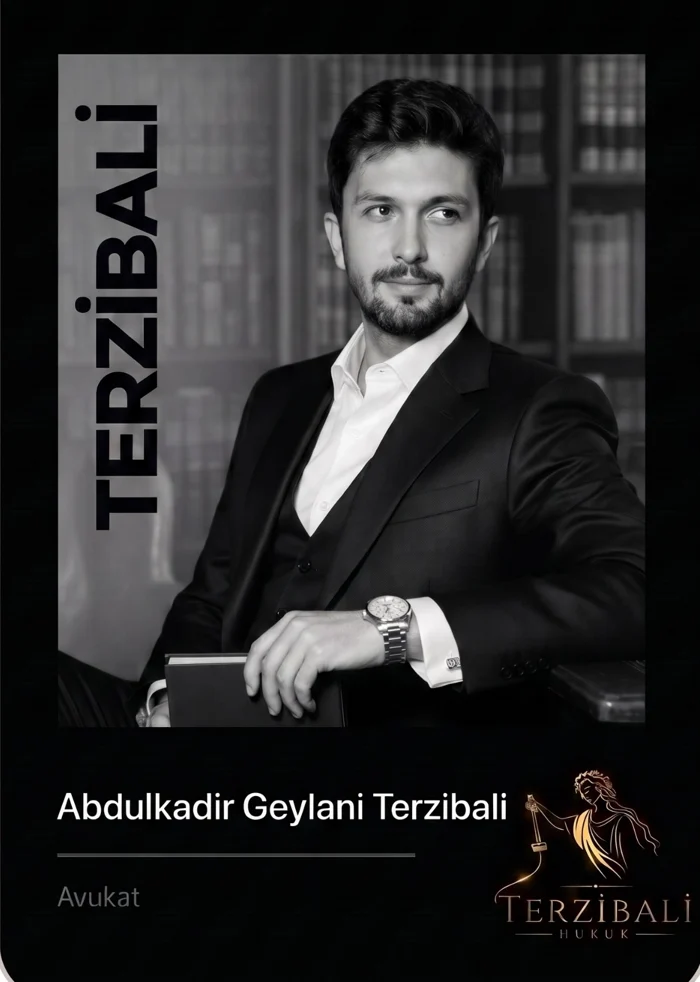
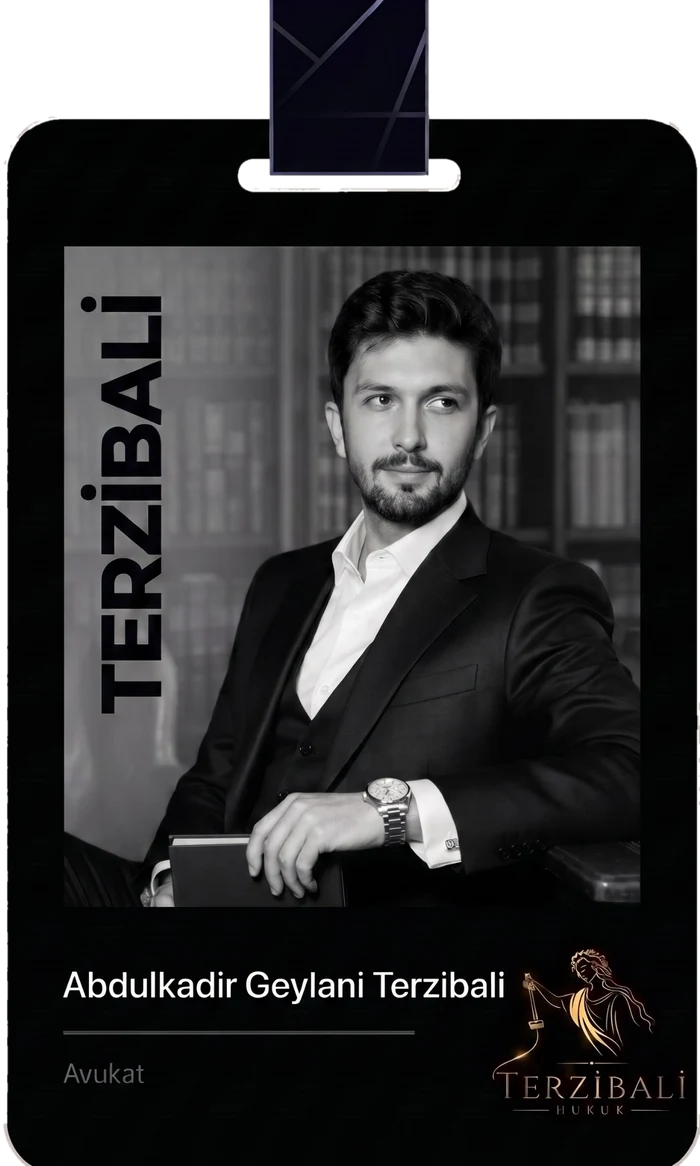
Başvuru bölümü: askılı face card, gerçek Google haritası, geniş form
- Face Card askısıyla birlikte, şeffaf arka planla yerleşti; askı
  yukarıdan iniyor, kart hafifçe sallanıyor (hareketi azalt ayarında durur)
- Formun altındaki küçük ofis fotoğrafı kaldırıldı (ofis.webp silindi)
- Temsilî SVG harita yerine Bakırköy, E-5 Yan Yol için Google Haritalar
  gömülü haritası ve "Google Haritalar'da aç" bağlantısı
- Orta sütundaki form daha geniş

Claude-Session: https://claude.ai/code/session_01LBeBcsDj4cfbtoJ4Fpq1zK

diff --git a/index.html b/index.html
@@ -246,13 +246,21 @@ body::before{content:"";position:fixed;inset:0 0 auto;height:env(safe-area-inset
 .reel-row .reel:nth-child(2){transition-delay:.12s}.reel-row .reel:nth-child(3){transition-delay:.24s}
 
 /* --- 4. Başvuru --- */
+.apply > .wrap{max-width:1360px}
 .apply{background:linear-gradient(180deg,var(--ink),var(--ink-2));overflow:hidden}
+.apply .facecard{margin-top:clamp(40px,6vw,90px)}
 .apply > .wrap > .reveal:first-child{position:relative}
 .apply > .wrap > .reveal:first-child::before{content:"";position:absolute;inset:-30px -60px -30px -60px;z-index:-1;pointer-events:none;background:radial-gradient(ellipse at 30% 50%,rgba(8,9,10,.6),transparent 70%)}
-.apply-grid{display:grid;grid-template-columns:minmax(0,.72fr) minmax(0,1.1fr) minmax(0,1fr);gap:22px;margin-top:48px;align-items:start}
-.facecard{margin:0;position:sticky;top:110px;max-width:100%;border-radius:26px;overflow:hidden;border:1px solid var(--line);background:#000;box-shadow:0 40px 80px -40px rgba(0,0,0,.95),0 0 0 1px rgba(197,160,89,.06)}
-.facecard img{width:100%;height:auto;display:block}
-@media (min-width:1101px){.apply-grid .form-foot{grid-template-columns:1fr}.apply-grid .apply-photo{max-width:220px}.apply-grid .loc-actions{grid-template-columns:1fr}.apply-grid .loc-body{padding:26px 22px}.apply-grid .row .v{font-size:.92rem}.apply-grid .row > span{overflow-wrap:normal}}
+.apply-grid{display:grid;grid-template-columns:minmax(0,.66fr) minmax(0,1.4fr) minmax(0,.92fr);gap:24px;margin-top:48px;align-items:start}
+.facecard{margin:0;position:relative;max-width:100%;transform-origin:50% -320px;animation:badgeSway 7s ease-in-out infinite}
+.facecard img{position:relative;width:100%;height:auto;display:block;filter:drop-shadow(0 34px 40px rgba(0,0,0,.75))}
+/* askı: kartın askısını bölümün üst kenarına kadar uzatır */
+.lanyard{position:absolute;left:38.6%;width:22%;bottom:calc(100% - 2px);height:calc(clamp(40px,6vw,90px) + 70px);pointer-events:none;-webkit-mask-image:linear-gradient(0deg,#000 55%,transparent);mask-image:linear-gradient(0deg,#000 55%,transparent);
+  background:linear-gradient(118deg,transparent 46%,rgba(170,165,210,.22) 47%,transparent 48.5%),linear-gradient(62deg,transparent 30%,rgba(170,165,210,.16) 31%,transparent 32.5%),linear-gradient(180deg,#05050c,#0b0a19);
+  background-size:100% 260px,100% 340px,100% 100%;box-shadow:inset 1px 0 0 rgba(255,255,255,.06),inset -1px 0 0 rgba(255,255,255,.06)}
+@keyframes badgeSway{0%,100%{transform:rotate(-.9deg)}50%{transform:rotate(.9deg)}}
+@media (prefers-reduced-motion:reduce){.facecard{animation:none}}
+@media (min-width:1101px){.apply-grid .form-foot{grid-template-columns:1fr}.apply-grid .loc-actions{grid-template-columns:1fr}.apply-grid .loc-body{padding:26px 22px}.apply-grid .row .v{font-size:.92rem}.apply-grid .row > span{overflow-wrap:normal}}
 .panel{border:1px solid var(--line);background:linear-gradient(170deg,var(--ink-3),var(--ink-2));border-radius:3px;box-shadow:0 40px 80px -40px rgba(0,0,0,.9)}
 .apply .panel{background:linear-gradient(170deg,rgba(21,24,26,.86),rgba(14,16,18,.9))}
 .form{padding:clamp(26px,4vw,48px);display:grid;grid-template-columns:1fr 1fr;gap:26px 22px;align-content:start}
@@ -269,12 +277,8 @@ body::before{content:"";position:fixed;inset:0 0 auto;height:env(safe-area-inset
 .field :focus ~ .bar{transform:scaleX(1)}
 .field.bad input,.field.bad select,.field.bad textarea{border-bottom-color:var(--danger)}
 .field .err{font-size:.78rem;color:var(--danger);margin-top:6px;min-height:0}
-.form-foot{grid-column:1/-1;display:grid;grid-template-columns:minmax(0,210px) minmax(0,1fr);gap:24px;align-items:center}
+.form-foot{grid-column:1/-1;display:grid;grid-template-columns:1fr;gap:24px;align-items:center}
 .form-foot-r{display:flex;flex-direction:column;align-items:flex-start;gap:16px;min-width:0}
-.apply-photo{margin:0;position:relative;aspect-ratio:4/3;max-width:100%;border:1px solid var(--line);border-radius:3px;overflow:hidden;box-shadow:0 18px 40px -20px rgba(0,0,0,.9)}
-.apply-photo img{width:100%;height:100%;object-fit:cover;display:block}
-.apply-photo figcaption{position:absolute;left:0;right:0;bottom:0;padding:18px 10px 7px;font-family:var(--f-display);font-size:.5rem;letter-spacing:.16em;text-transform:uppercase;color:var(--gold-hi);background:linear-gradient(0deg,rgba(8,9,10,.92),transparent)}
-@media (max-width:560px){.form-foot{grid-template-columns:1fr}.apply-photo{max-width:240px}}
 .form-foot small{color:var(--fg-mute);font-size:.8rem;max-width:44ch}
 .status{grid-column:1/-1;margin:0;font-size:.92rem;min-height:1.5em}
 .status.ok{color:var(--ok)}.status.no{color:var(--danger)}
@@ -309,12 +313,12 @@ body::before{content:"";position:fixed;inset:0 0 auto;height:env(safe-area-inset
 
 .loc{display:flex;flex-direction:column;overflow:hidden}
 .map{position:relative;aspect-ratio:16/11;max-width:100%;background:#0b0d0e;overflow:hidden;border-bottom:1px solid var(--line)}
-.map svg{width:100%;height:100%;display:block}
-.map svg.pin{width:34px;height:44px}
-.pin{position:absolute;left:56%;top:47%;transform:translate(-50%,-100%);width:34px;height:44px;filter:drop-shadow(0 6px 10px rgba(0,0,0,.6))}
-.pin::after{content:"";position:absolute;left:50%;bottom:-6px;width:14px;height:14px;border-radius:50%;transform:translateX(-50%);border:1px solid var(--gold);animation:ping 2.2s ease-out infinite}
-@keyframes ping{0%{transform:translateX(-50%) scale(.6);opacity:1}100%{transform:translateX(-50%) scale(4);opacity:0}}
-.map .tag{position:absolute;left:12px;bottom:10px;font-size:.68rem;color:var(--fg-mute);letter-spacing:.06em}
+.map::before{content:"Harita yükleniyor…";position:absolute;inset:0;display:grid;place-items:center;color:var(--fg-mute);font-size:.8rem;letter-spacing:.06em}
+.gmap{position:absolute;inset:0;width:100%;height:100%;border:0;display:block;filter:grayscale(.35) invert(.92) hue-rotate(180deg) brightness(.92) contrast(.92)}
+.map-open{position:absolute;right:10px;bottom:10px;z-index:2;display:inline-flex;align-items:center;gap:6px;padding:7px 11px;border:1px solid var(--line);border-radius:2px;
+  background:rgba(8,9,10,.82);backdrop-filter:blur(6px);-webkit-backdrop-filter:blur(6px);color:var(--gold-hi);font-size:.72rem;letter-spacing:.04em;transition:background .3s,color .3s}
+.map-open svg{width:13px;height:13px}
+.map-open:hover{background:var(--gold);color:#14100a}
 .loc-body{padding:clamp(24px,3vw,34px);display:flex;flex-direction:column;gap:20px}
 .loc-body h3{margin:0;font-family:var(--f-serif);font-weight:500;font-size:1.6rem;line-height:1.2}
 .addr{margin:0;color:var(--fg-dim)}
@@ -328,8 +332,8 @@ body::before{content:"";position:fixed;inset:0 0 auto;height:env(safe-area-inset
 .loc-actions{display:grid;grid-template-columns:1fr 1fr 1fr;gap:10px}
 .loc-actions .btn{padding:14px 10px;letter-spacing:.14em;font-size:.62rem}
 .hours{font-size:.84rem;color:var(--fg-mute);margin:0}
-@media (max-width:1100px) and (min-width:961px){.apply-grid{grid-template-columns:minmax(0,1fr) minmax(0,1.3fr)}.facecard{grid-row:span 2}}
-@media (max-width:960px){.apply-grid{grid-template-columns:1fr}.facecard{position:static;max-width:360px;margin-inline:auto}}
+@media (max-width:1100px) and (min-width:961px){.apply-grid{grid-template-columns:minmax(0,1fr) minmax(0,1.3fr)}.facecard{grid-row:span 2;align-self:start}}
+@media (max-width:960px){.apply-grid{grid-template-columns:1fr}.facecard{max-width:320px;margin-inline:auto}}
 @media (max-width:560px){.form{grid-template-columns:1fr}.loc-actions{grid-template-columns:1fr}.loc-body{padding:22px 18px}.row{padding:12px}.row .v{font-size:.9rem}.row > span{overflow-wrap:normal}.copy{padding:6px 8px}}
 
 /* owner inbox */
@@ -564,7 +568,7 @@ body::before{content:"";position:fixed;inset:0 0 auto;height:env(safe-area-inset
     </div>
 
     <div class="apply-grid">
-      <figure class="facecard reveal"><img src="img/facecard.webp" alt="Av. Abdulkadir Geylani Terzibali, Terzibali Hukuk kimlik kartı" width="700" height="982" loading="lazy"></figure>
+      <figure class="facecard reveal"><span class="lanyard" aria-hidden="true"></span><img src="img/facecard.webp" alt="Av. Abdulkadir Geylani Terzibali, Terzibali Hukuk kimlik kartı" width="700" height="1166" loading="lazy"></figure>
       <form class="form panel reveal" id="form" action="https://api.web3forms.com/submit" method="POST" novalidate>
         <!-- Web3Forms: başvurular bu anahtara tanımlı adrese (av.kadirterzibali@gmail.com) e-posta olarak gider.
              Bu anahtar tarayıcıda görünmek üzere tasarlanmıştır; gizli değildir. -->
@@ -588,7 +592,6 @@ body::before{content:"";position:fixed;inset:0 0 auto;height:env(safe-area-inset
         <div class="field full"><label for="f-msg">Mesajınız</label><textarea id="f-msg" name="Mesaj" required maxlength="3000" placeholder="Hukuki durumu kısaca özetleyin"></textarea><span class="bar"></span><span class="err" id="e-msg"></span></div>
         <p class="status" id="status" role="status"></p>
         <div class="form-foot">
-          <figure class="apply-photo"><img src="img/ofis.webp" alt="Av. Abdulkadir Geylani Terzibali ofisinde" width="600" height="450" loading="lazy"><figcaption>Av. Abdulkadir Geylani Terzibali</figcaption></figure>
           <div class="form-foot-r">
           <small>Bilgileriniz yalnızca başvurunuzun değerlendirilmesi için kullanılır. Form, avukat-müvekkil ilişkisi kurmaz.</small>
           <button class="btn btn-gold" type="submit" id="submit"><span class="spin" aria-hidden="true"></span><span class="lbl">Başvuru Yap</span> <svg class="arr" viewBox="0 0 24 24" fill="none" stroke="currentColor" stroke-width="1.6" aria-hidden="true"><path d="M4 12h16M14 6l6 6-6 6"/></svg></button>
@@ -598,26 +601,8 @@ body::before{content:"";position:fixed;inset:0 0 auto;height:env(safe-area-inset
 
       <aside class="loc panel reveal" aria-label="Büro konumu">
         <div class="map">
-          <svg viewBox="0 0 400 275" preserveAspectRatio="xMidYMid slice" role="img" aria-label="Bakırköy çevresini gösteren temsilî harita">
-            <rect width="400" height="275" fill="#0c0f10"/>
-            <path d="M0 215 C70 205 120 228 190 222 S320 205 400 214 V275 H0Z" fill="#0f1b1f"/>
-            <g stroke="#1b2023" stroke-width="1">
-              <path d="M0 40H400M0 80H400M0 160H400M0 190H400M40 0V275M95 0V275M150 0V275M260 0V275M320 0V275M370 0V275" fill="none"/>
-            </g>
-            <g stroke="#262c2f" stroke-width="3" fill="none" stroke-linecap="round">
-              <path d="M0 125 C80 120 140 132 210 128 S330 116 400 120"/>
-              <path d="M200 0 C205 60 215 120 230 215"/>
-              <path d="M60 0 C70 70 80 140 110 210"/>
-            </g>
-            <path d="M0 108 C90 100 150 112 220 106 S340 95 400 100" stroke="#c5a059" stroke-opacity=".75" stroke-width="5" fill="none"/>
-            <path d="M0 116 C90 108 150 120 220 114 S340 103 400 108" stroke="#c5a059" stroke-opacity=".35" stroke-width="1.5" fill="none" stroke-dasharray="6 6"/>
-            <text x="18" y="96" fill="#c5a059" font-size="10" font-family="Manrope, sans-serif" letter-spacing="2">E-5 (D-100)</text>
-            <text x="300" y="132" fill="#8a877f" font-size="9" font-family="Manrope, sans-serif" letter-spacing="1.5">Yan Yol</text>
-            <text x="245" y="70" fill="#a8a397" font-size="12" font-family="Cormorant Garamond, Georgia, serif" font-style="italic">Bakırköy</text>
-            <text x="150" y="252" fill="#3d5359" font-size="10" font-family="Manrope, sans-serif" letter-spacing="3">MARMARA DENİZİ</text>
-          </svg>
-          <svg class="pin" viewBox="0 0 34 44" aria-hidden="true"><path d="M17 43s14-14.6 14-25.5A14 14 0 0 0 3 17.5C3 28.4 17 43 17 43z" fill="#c5a059"/><circle cx="17" cy="17" r="5.5" fill="#14100a"/></svg>
-          <span class="tag">Harita temsilîdir</span>
+          <iframe class="gmap" title="Terzibali Hukuk konumu: Bakırköy, E-5 Yan Yol, İstanbul (Google Haritalar)" src="https://maps.google.com/maps?q=Bak%C4%B1rk%C3%B6y%20E-5%20Yan%20Yol%2C%20%C4%B0stanbul&amp;hl=tr&amp;z=15&amp;output=embed" loading="lazy" referrerpolicy="no-referrer-when-downgrade" allowfullscreen></iframe>
+          <a class="map-open" href="https://www.google.com/maps/search/?api=1&amp;query=Bak%C4%B1rk%C3%B6y%20E-5%20Yan%20Yol%2C%20%C4%B0stanbul" target="_blank" rel="noopener">Google Haritalar'da aç <svg viewBox="0 0 24 24" fill="none" stroke="currentColor" stroke-width="1.6" aria-hidden="true"><path d="M14 4h6v6M20 4l-9 9M18 14v5a1 1 0 0 1-1 1H5a1 1 0 0 1-1-1V7a1 1 0 0 1 1-1h5"/></svg></a>
         </div>
         <div class="loc-body">
           <div>
